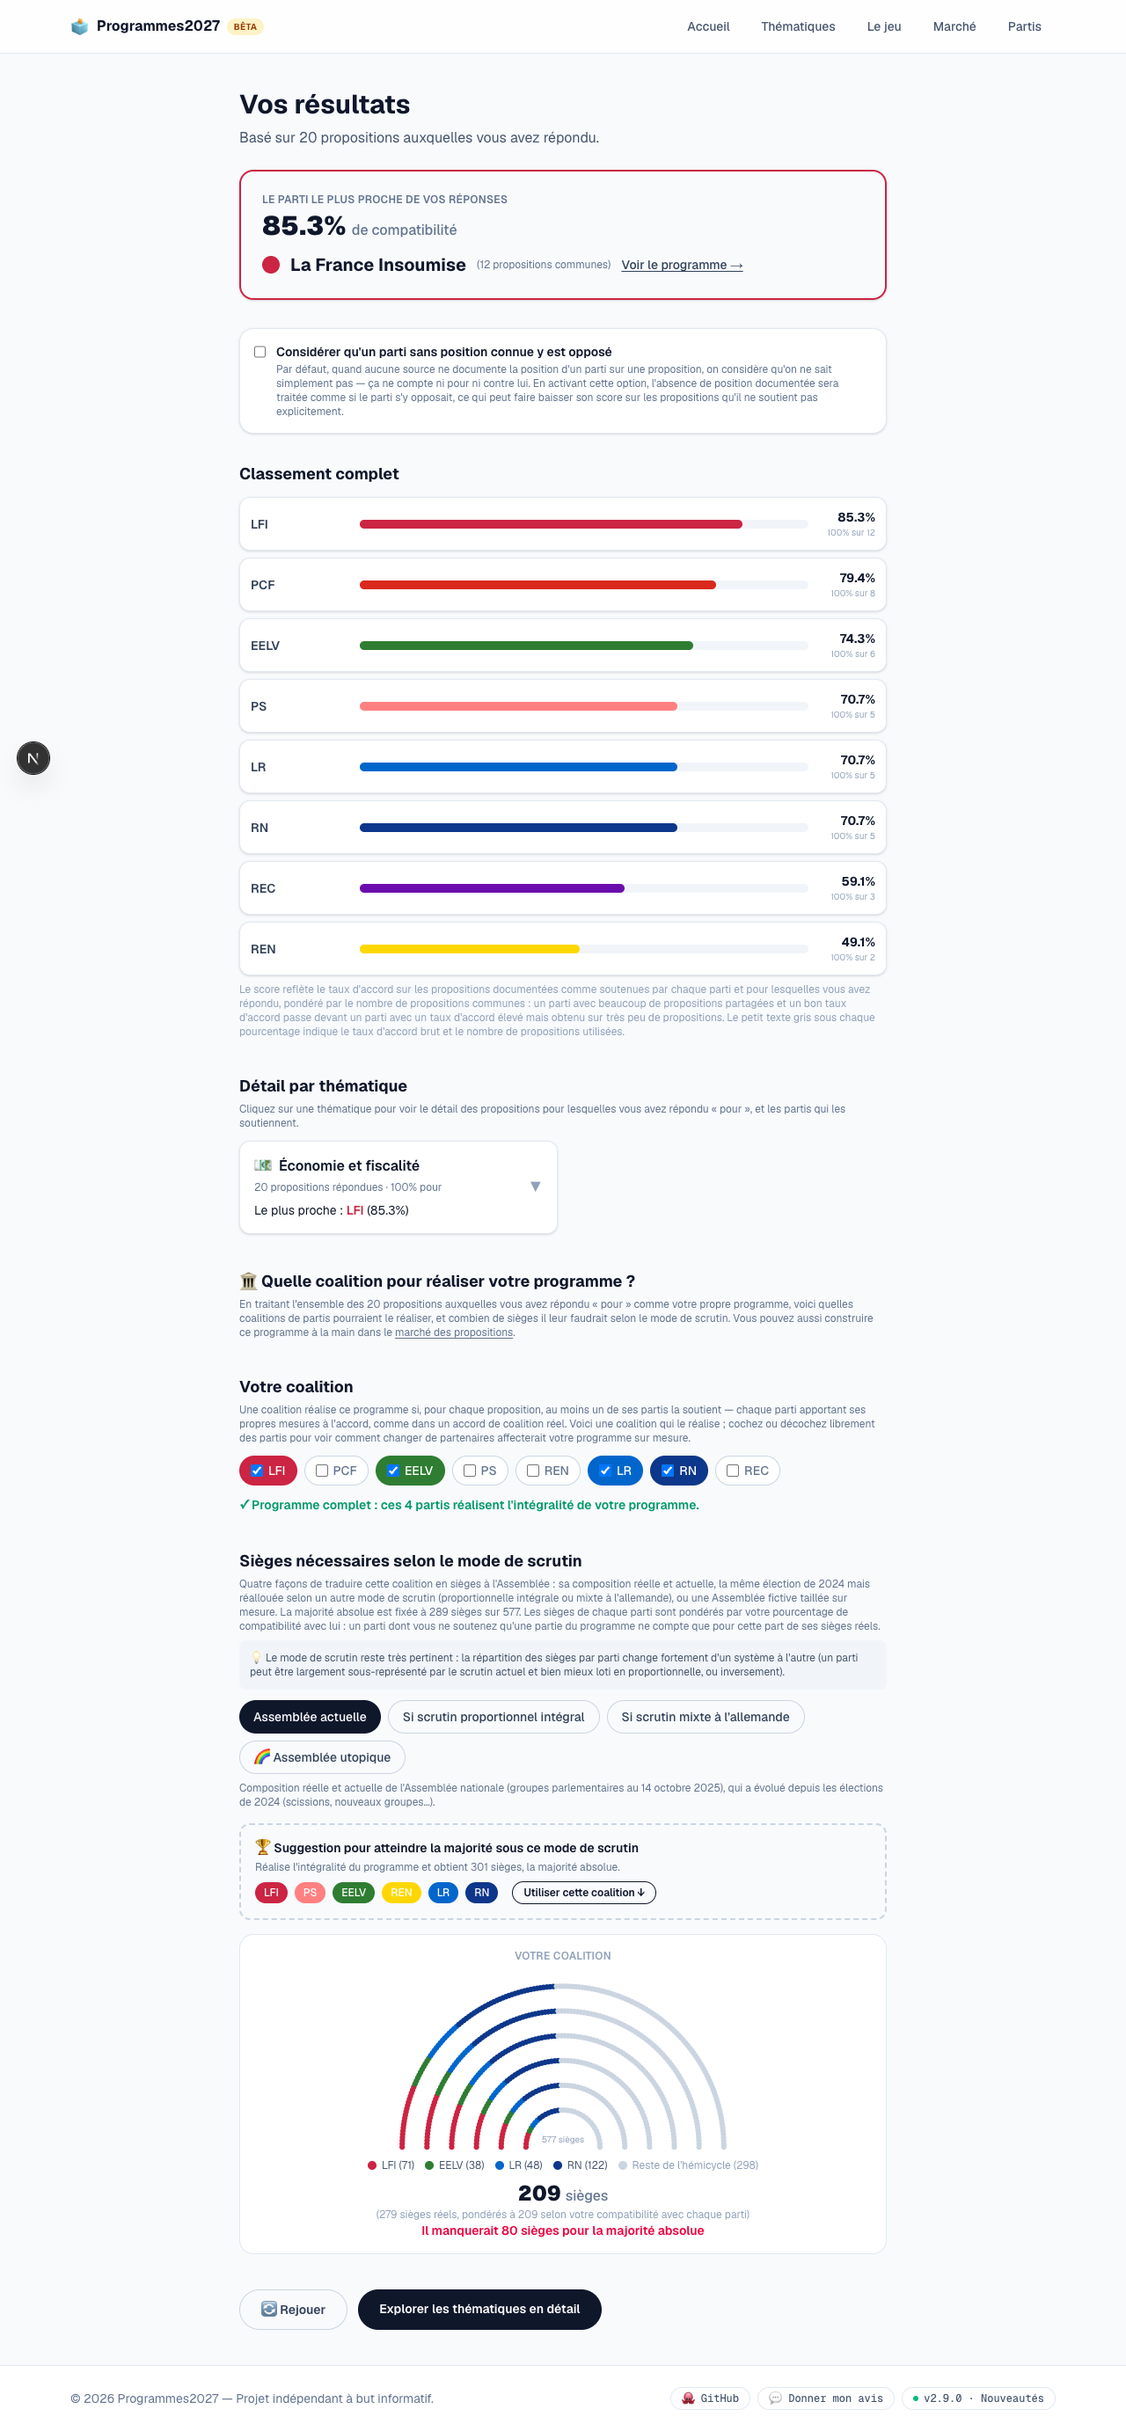
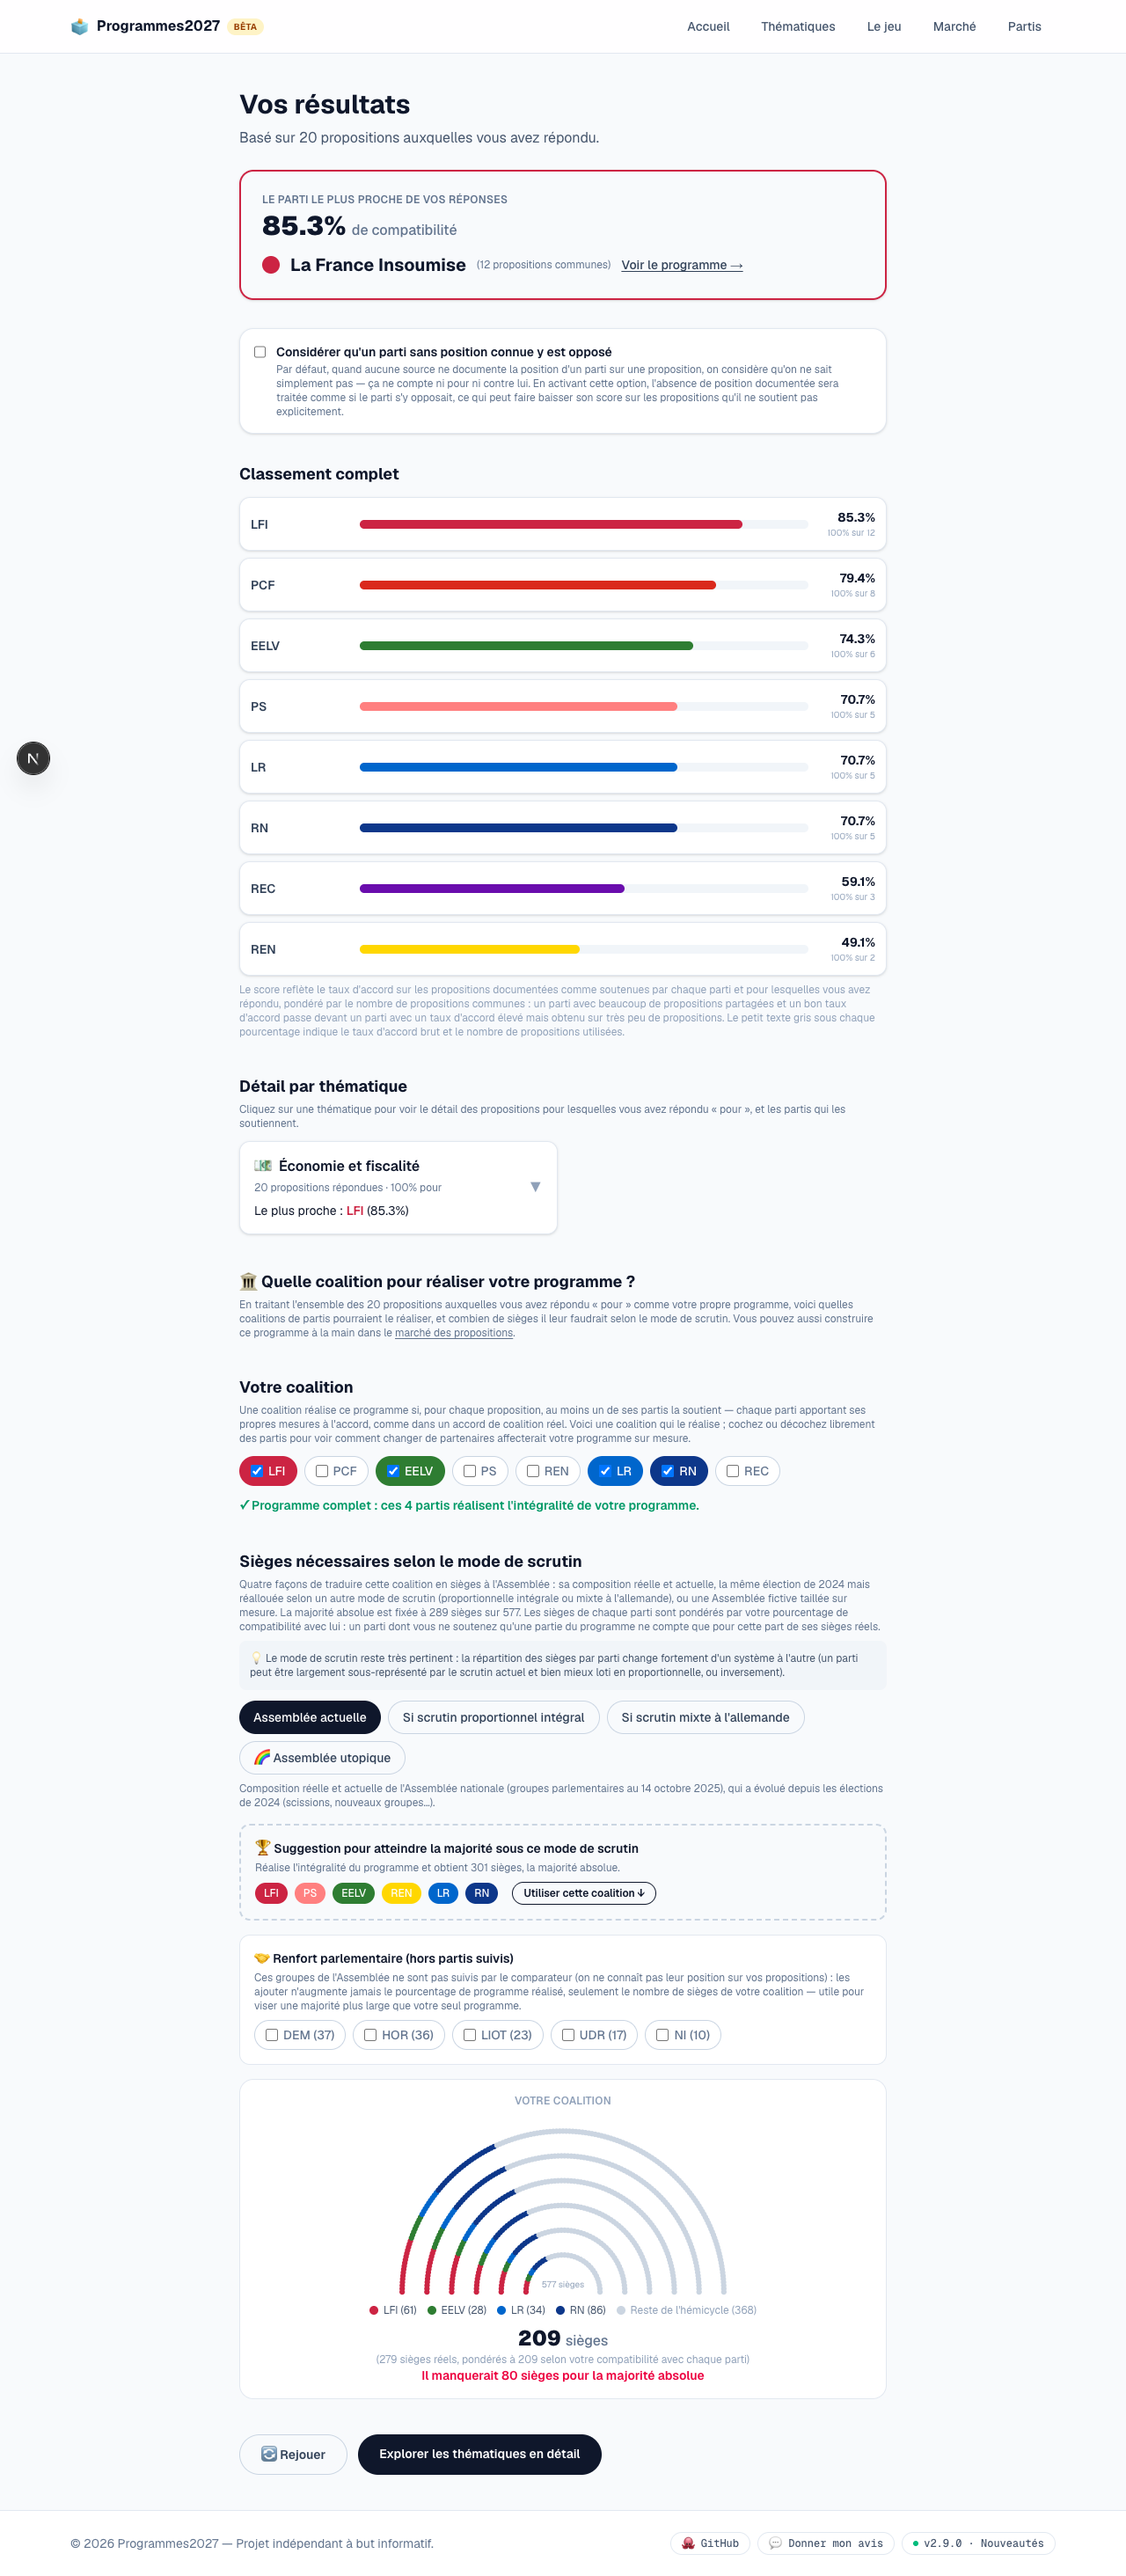
Fix weighted-seats mismatch and let coalitions include untracked parliamentary groups

diff --git a/src/components/CoalitionExplorer.tsx b/src/components/CoalitionExplorer.tsx
@@ -4,15 +4,19 @@ import { useMemo, useState } from "react";
 import { partyById } from "@/lib/data/parties";
 import { PartyId, Proposition } from "@/lib/types";
 import {
+  OTHER_ASSEMBLY_GROUPS,
+  SupportGroupId,
+} from "@/lib/data/currentAssembly";
+import {
   ELECTORAL_SYSTEMS,
   ElectoralSystemId,
   MAJORITY_THRESHOLD,
   PartyCompatibility,
+  SeatsByParty,
   TOTAL_SEATS,
   computeSeats,
   computeUtopianSeats,
   findCoalitions,
-  coalitionSeats,
   findVirtualMajority,
 } from "@/lib/electoralSystems";
 import { Hemicycle } from "@/components/Hemicycle";
@@ -74,6 +78,9 @@ export function CoalitionExplorer({
   partyCompatibility?: PartyCompatibility;
 }) {
   const [system, setSystem] = useState<ElectoralSystemId>("actuelle");
+  const [selectedSupportGroups, setSelectedSupportGroups] = useState<
+    SupportGroupId[]
+  >([]);
 
   const coalitions = useMemo(() => findCoalitions(propositions), [propositions]);
   // The single best coalition proposed by default: fewest parties among
@@ -103,6 +110,7 @@ export function CoalitionExplorer({
   if (currentKey !== prevKey) {
     setPrevKey(currentKey);
     setSelectedParties(recommendedCoalition?.parties ?? []);
+    setSelectedSupportGroups([]);
   }
 
   const virtualMajority = useMemo(
@@ -115,6 +123,12 @@ export function CoalitionExplorer({
   function toggleParty(id: PartyId) {
     setSelectedParties((prev) =>
       prev.includes(id) ? prev.filter((p) => p !== id) : [...prev, id]
+    );
+  }
+
+  function toggleSupportGroup(id: SupportGroupId) {
+    setSelectedSupportGroups((prev) =>
+      prev.includes(id) ? prev.filter((g) => g !== id) : [...prev, id]
     );
   }
 
@@ -180,7 +194,10 @@ export function CoalitionExplorer({
               })}
               {isCustomized && recommendedCoalition && (
                 <button
-                  onClick={() => setSelectedParties(recommendedCoalition.parties)}
+                  onClick={() => {
+                    setSelectedParties(recommendedCoalition.parties);
+                    setSelectedSupportGroups([]);
+                  }}
                   className="ml-1 rounded-full border border-slate-900 px-3 py-1.5 text-sm font-semibold text-slate-900 hover:bg-slate-900 hover:text-white"
                 >
                   ↺ Revenir à la coalition proposée
@@ -326,13 +343,98 @@ export function CoalitionExplorer({
             </div>
           )}
 
+          {/* Optional extra support from parliamentary groups not
+              tracked as one of the 8 parties: seats only, never program
+              coverage — useful to build a broader "coalition de
+              soutien" than the program itself requires. */}
+          <div className="mt-4 rounded-xl border border-slate-200 bg-white p-4">
+            <h3 className="text-sm font-semibold text-slate-900">
+              🤝 Renfort parlementaire (hors partis suivis)
+            </h3>
+            <p className="mt-1 text-xs text-slate-500">
+              Ces groupes de l&apos;Assemblée ne sont pas suivis par le
+              comparateur (on ne connaît pas leur position sur vos
+              propositions) : les ajouter n&apos;augmente jamais le
+              pourcentage de programme réalisé, seulement le nombre de
+              sièges de votre coalition — utile pour viser une majorité
+              plus large que votre seul programme.
+            </p>
+            <div className="mt-2 flex flex-wrap items-center gap-2">
+              {OTHER_ASSEMBLY_GROUPS.map((group) => {
+                const isIn = selectedSupportGroups.includes(group.id);
+                const seatsHere = system === "actuelle" ? group.seats : null;
+                return (
+                  <label
+                    key={group.id}
+                    title={group.name}
+                    className={`flex cursor-pointer items-center gap-1.5 rounded-full border px-3 py-1.5 text-sm font-medium transition ${
+                      isIn
+                        ? "border-transparent text-white"
+                        : "border-slate-300 bg-white text-slate-500 hover:border-slate-400"
+                    }`}
+                    style={isIn ? { backgroundColor: group.color } : undefined}
+                  >
+                    <input
+                      type="checkbox"
+                      checked={isIn}
+                      onChange={() => toggleSupportGroup(group.id)}
+                      className="h-3.5 w-3.5"
+                    />
+                    {group.shortName}
+                    {seatsHere !== null ? ` (${seatsHere})` : ""}
+                  </label>
+                );
+              })}
+            </div>
+            {selectedSupportGroups.length > 0 && system !== "actuelle" && (
+              <p className="mt-2 text-xs text-amber-600">
+                On ne connaît pas le poids électoral 2024 de ces groupes
+                pris isolément (la plupart n&apos;avaient pas d&apos;étiquette
+                propre à l&apos;époque) : ils n&apos;apportent de sièges que
+                sous « Assemblée actuelle ».
+              </p>
+            )}
+          </div>
+
           {(() => {
-            const { seatsByParty, otherSeats } =
+            const { seatsByParty: rawSeatsByParty, otherSeats: rawOtherSeats } =
               system === "utopique"
                 ? computeUtopianSeats(selectedParties, partyCompatibility)
                 : computeSeats(system);
-            const seats = coalitionSeats(selectedParties, system, partyCompatibility);
-            const rawSeats = coalitionSeats(selectedParties, system);
+
+            // Weight each selected party's seats by compatibility (if
+            // available) so the headline seat count and the hemicycle's
+            // colored dots always match exactly — the "lost" seats from
+            // weighting go back into the grey "reste" bucket. Utopian
+            // mode is already compatibility-weighted at the source
+            // (`computeUtopianSeats`), so it's left untouched here.
+            const seatsByParty: SeatsByParty = { ...rawSeatsByParty };
+            let otherSeats = rawOtherSeats;
+            let trackedSeats = 0;
+            for (const id of selectedParties) {
+              const raw = rawSeatsByParty[id] ?? 0;
+              if (partyCompatibility && system !== "utopique") {
+                const weight = (partyCompatibility[id] ?? 100) / 100;
+                const weighted = Math.round(raw * weight);
+                seatsByParty[id] = weighted;
+                otherSeats += raw - weighted;
+                trackedSeats += weighted;
+              } else {
+                trackedSeats += raw;
+              }
+            }
+
+            const extraGroups = selectedSupportGroups.map((id) => {
+              const group = OTHER_ASSEMBLY_GROUPS.find((g) => g.id === id)!;
+              const count = system === "actuelle" ? group.seats : 0;
+              return { id: group.id, shortName: group.shortName, color: group.color, count };
+            });
+            const supportSeats = extraGroups.reduce((sum, g) => sum + g.count, 0);
+
+            const seats = trackedSeats + supportSeats;
+            const rawSeats =
+              selectedParties.reduce((sum, id) => sum + (rawSeatsByParty[id] ?? 0), 0) +
+              supportSeats;
             const hasMajority = seats >= MAJORITY_THRESHOLD;
             return (
               <div className="mt-4 rounded-2xl border border-slate-200 bg-white p-4">
@@ -345,11 +447,12 @@ export function CoalitionExplorer({
                   otherSeats={otherSeats}
                   totalSeats={TOTAL_SEATS}
                   highlightParties={selectedParties}
+                  extraGroups={extraGroups}
                 />
                 <p className="mt-2 text-center text-2xl font-black text-slate-900">
                   {seats} <span className="text-base font-medium text-slate-500">sièges</span>
                 </p>
-                {partyCompatibility && seats !== rawSeats && (
+                {seats !== rawSeats && (
                   <p className="text-center text-xs text-slate-400">
                     ({rawSeats} sièges réels, pondérés à {seats} selon votre
                     compatibilité avec chaque parti)

diff --git a/src/components/Hemicycle.tsx b/src/components/Hemicycle.tsx
@@ -4,11 +4,23 @@ import { partyById } from "@/lib/data/parties";
 import { PartyId } from "@/lib/types";
 import { SeatsByParty } from "@/lib/electoralSystems";
 
+export interface ExtraHemicycleGroup {
+  id: string;
+  shortName: string;
+  color: string;
+  count: number;
+}
+
 interface HemicycleProps {
   seatsByParty: SeatsByParty;
   otherSeats: number;
   totalSeats: number;
   highlightParties?: PartyId[];
+  /** Additional highlighted blocks not part of `seatsByParty` (e.g. a
+   * parliamentary group not tracked as one of the 8 parties, added by
+   * the user as potential extra support) — rendered with their own
+   * color, and subtracted from the grey "reste" bucket. */
+  extraGroups?: ExtraHemicycleGroup[];
 }
 
 const OTHER_COLOR = "#CBD5E1"; // slate-300
@@ -30,6 +42,13 @@ const POLITICAL_ORDER: PartyId[] = [
   "reconquete",
 ];
 
+interface Block {
+  id: string;
+  shortName: string;
+  color: string;
+  count: number;
+}
+
 /**
  * Hemicycle visualization inspired by Le Monde's coalition simulator
  * (https://www.lemonde.fr/les-decodeurs/.../simulateur-de-coalition):
@@ -46,6 +65,7 @@ export function Hemicycle({
   otherSeats,
   totalSeats,
   highlightParties,
+  extraGroups,
 }: HemicycleProps) {
   const highlightSet = new Set(highlightParties ?? []);
 
@@ -53,17 +73,28 @@ export function Hemicycle({
     (a, b) => POLITICAL_ORDER.indexOf(a as PartyId) - POLITICAL_ORDER.indexOf(b as PartyId)
   ) as PartyId[];
 
-  const coalitionBlocks: Array<{ id: string; color: string; count: number }> = [];
+  const coalitionBlocks: Block[] = [];
   let inactiveCount = otherSeats;
 
   for (const id of orderedPartyIds) {
     const count = seatsByParty[id] ?? 0;
     if (count <= 0) continue;
     if (highlightSet.has(id)) {
-      coalitionBlocks.push({ id, color: partyById[id].color, count });
+      coalitionBlocks.push({ id, shortName: partyById[id].shortName, color: partyById[id].color, count });
     } else {
       inactiveCount += count;
     }
+  }
+
+  for (const group of extraGroups ?? []) {
+    if (group.count <= 0) continue;
+    coalitionBlocks.push({
+      id: group.id,
+      shortName: group.shortName,
+      color: group.color,
+      count: group.count,
+    });
+    inactiveCount -= group.count;
   }
 
   // If no coalition was specified at all, show every party in its own
@@ -74,12 +105,19 @@ export function Hemicycle({
     ? [
         ...orderedPartyIds
           .filter((id) => (seatsByParty[id] ?? 0) > 0)
-          .map((id) => ({ id, color: partyById[id].color, count: seatsByParty[id] ?? 0 })),
-        ...(otherSeats > 0 ? [{ id: "autres", color: OTHER_COLOR, count: otherSeats }] : []),
+          .map((id) => ({
+            id,
+            shortName: partyById[id].shortName,
+            color: partyById[id].color,
+            count: seatsByParty[id] ?? 0,
+          })),
+        ...(otherSeats > 0 ? [{ id: "autres", shortName: "Autres", color: OTHER_COLOR, count: otherSeats }] : []),
       ]
     : [
         ...coalitionBlocks,
-        ...(inactiveCount > 0 ? [{ id: "inactifs", color: OTHER_COLOR, count: inactiveCount }] : []),
+        ...(inactiveCount > 0
+          ? [{ id: "inactifs", shortName: "Reste de l'hémicycle", color: OTHER_COLOR, count: inactiveCount }]
+          : []),
       ];
 
   const totalCount = blocks.reduce((sum, b) => sum + b.count, 0) || 1;
@@ -153,7 +191,7 @@ export function Hemicycle({
         {(noHighlight ? blocks : coalitionBlocks).map((b) => (
           <span key={b.id} className="flex items-center gap-1.5 text-xs text-slate-600">
             <span className="h-2.5 w-2.5 rounded-full" style={{ backgroundColor: b.color }} />
-            {b.id === "autres" ? "Autres" : partyById[b.id as PartyId].shortName} ({b.count})
+            {b.shortName} ({b.count})
           </span>
         ))}
         {!noHighlight && inactiveCount > 0 && (

diff --git a/src/lib/data/currentAssembly.ts b/src/lib/data/currentAssembly.ts
@@ -44,3 +44,40 @@ const TRACKED_CURRENT_SEATS = Object.values(
 
 /** DEM (37) + HOR (36) + LIOT (23) + UDR (17) + non-inscrits (10) = 123. */
 export const CURRENT_ASSEMBLY_OTHER_SEATS = TOTAL_SEATS - TRACKED_CURRENT_SEATS;
+
+export type SupportGroupId = "dem" | "hor" | "liot" | "udr" | "ni";
+
+export interface SupportGroup {
+  id: SupportGroupId;
+  shortName: string;
+  name: string;
+  /** Real seats in the current Assembly (see module doc for date/source). */
+  seats: number;
+  /** Neutral, distinguishable colors — deliberately NOT one of the 8
+   * tracked parties' colors, since these groups aren't tracked for
+   * proposition support: adding them to a coalition only ever contributes
+   * seats, never program coverage. */
+  color: string;
+}
+
+/**
+ * The 5 real parliamentary groups making up "autres"/`CURRENT_ASSEMBLY_OTHER_SEATS`
+ * above, exposed individually so users can add them to a coalition as
+ * potential extra seats of support (e.g. a centrist or regionalist group
+ * that might vote for a bill without being one of the 8 parties whose
+ * proposition-level positions this site tracks). Seats sum to 123,
+ * matching `CURRENT_ASSEMBLY_OTHER_SEATS`.
+ *
+ * Only meaningful under the "actuelle" electoral system: we have no
+ * equivalent 2024 national vote-share breakdown for these groups (most
+ * ran under joint labels like "Ensemble" with Renaissance, or didn't
+ * exist as distinct groups until after the election), so they can't be
+ * re-simulated under "proportionnelle"/"mixte"/"utopique".
+ */
+export const OTHER_ASSEMBLY_GROUPS: SupportGroup[] = [
+  { id: "dem", shortName: "DEM", name: "Les Démocrates (MoDem)", seats: 37, color: "#94a3b8" },
+  { id: "hor", shortName: "HOR", name: "Horizons et indépendants", seats: 36, color: "#78716c" },
+  { id: "liot", shortName: "LIOT", name: "Libertés, indépendants, outre-mer et territoires", seats: 23, color: "#a8a29e" },
+  { id: "udr", shortName: "UDR", name: "Union des droites pour la République", seats: 17, color: "#57534e" },
+  { id: "ni", shortName: "NI", name: "Non-inscrits", seats: 10, color: "#d6d3d1" },
+];

diff --git a/README.md b/README.md
@@ -105,7 +105,13 @@ partis pour construire votre propre programme, puis découvrez :
 - une **suggestion de coalition atteignant la majorité** *sous le mode
   de scrutin choisi*, en un clic — puisque la répartition des sièges par
   parti (et donc la coalition minimale nécessaire) diffère fortement
-  d'un système à l'autre.
+  d'un système à l'autre ;
+- un **renfort parlementaire optionnel** : les groupes de l'Assemblée
+  non suivis par le comparateur (Les Démocrates, Horizons, LIOT, UDR,
+  non-inscrits) peuvent être ajoutés à la coalition pour leurs sièges
+  réels (sous « Assemblée actuelle » uniquement), sans jamais compter
+  dans le pourcentage de programme réalisé puisqu'on ne connaît pas
+  leur position sur vos propositions.
 
 Sur la page des résultats du quiz, les sièges de chaque parti sont en
 plus **pondérés par votre pourcentage de compatibilité** avec lui : un
